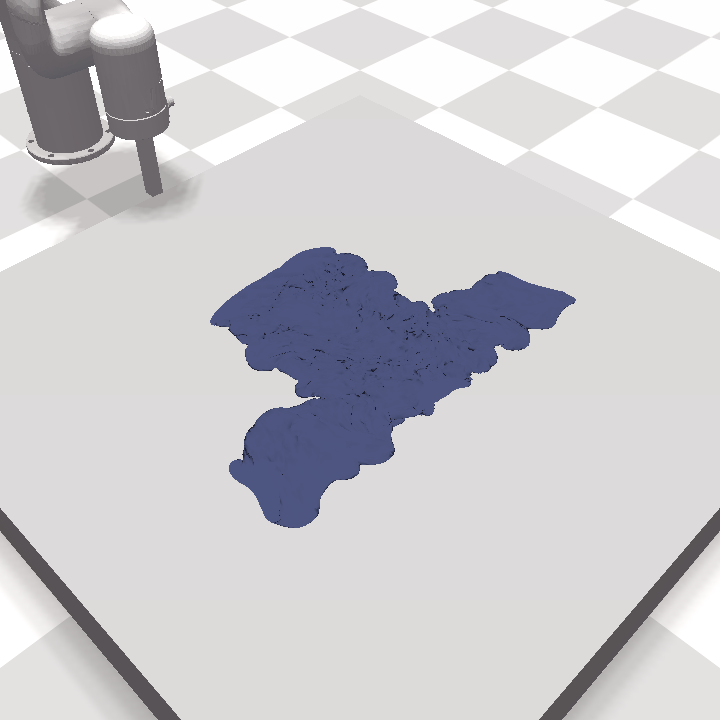
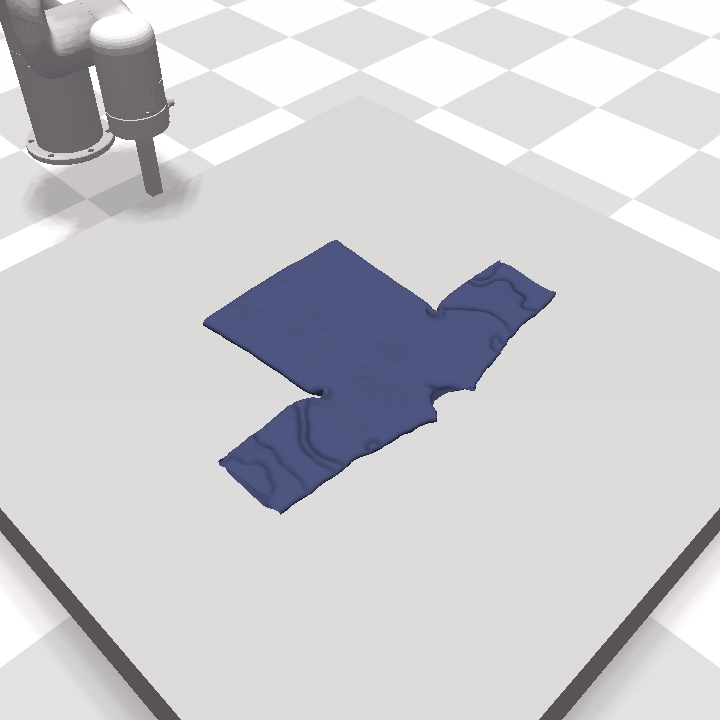
debug tshirt case.

diff --git a/flex_env.py b/flex_env.py
@@ -243,20 +243,23 @@ class FlexEnv(gym.Env):
             mesh_faces = retval[1]
             mesh_stretch_edges, mesh_bend_edges, mesh_shear_edges = retval[2:]
 
-            mesh_verts = mesh_verts * 3
+            mesh_verts = mesh_verts * 3.5
             
-            cloth_pos = [-0.5, 0, 0]
+            cloth_pos = [-1., 100., 0.]
             cloth_size = [20, 20]
             # stiffness = [0.85, 0.90, 0.90] # [stretch, bend, shear]
             stiffness = rand_float(0.4, 1.0)
             stiffness = [stiffness, stiffness, stiffness] # [stretch, bend, shear]
             cloth_mass = 1.0
-            particle_r = 0.02
+            particle_r = 0.00625
             render_mode = 2
             flip_mesh = 0
-            dynamicFriction = 0.6
-            staticFriction = 1.0
-            particleFriction = 0.6
+            
+            # 0.6, 1.0, 0.6
+            dynamicFriction = 0.1
+            staticFriction = 0.1
+            particleFriction = 0.1
+            
             self.scene_params = np.array([
                 *cloth_pos,
                 *cloth_size,
@@ -280,9 +283,9 @@ class FlexEnv(gym.Env):
         elif self.obj == '2d_cloth':
             radius = 0.05
             offset_x = -1.
-            offset_y = 0.06
+            offset_y = 5.
             offset_z = -1.
-            fabric_type = 2
+            fabric_type = 1 # 0: cloth, 1: shirt, 2: pants
 
             if fabric_type == 0:
                 # parameters of the shape
@@ -539,9 +542,8 @@ class FlexEnv(gym.Env):
         self.reset_robot()
     
     def step(self, action):
-        # h = 0.5 + self.global_scale / 8.0 #TODO
         # h = 0
-        h = 1.0 
+        h = 0.5 + 0.5
         s_2d = np.concatenate([action[:2], [h]])
         e_2d = np.concatenate([action[2:], [h]])
         # print('start action:', s_2d)
@@ -557,14 +559,12 @@ class FlexEnv(gym.Env):
         orn = np.array([0.0, np.pi, pusher_angle + np.pi/2])
 
         # create way points
-        # way_points = [s_2d + np.array([0., 0., self.global_scale / 24.0]), s_2d, e_2d, e_2d + np.array([0., 0., self.global_scale / 24.0])]
-        # way_points = [s_2d + np.array([0., 0., 1.]), s_2d, e_2d, e_2d + np.array([0., 0., 1.])]
         way_points = [s_2d + np.array([0., 0., 0.]), s_2d, e_2d, e_2d + np.array([0., 0., 0.])]
 
         self.reset_robot(self.rest_joints)
         
         # steps from waypoints
-        speed = 1.0/60.
+        speed = 1.0/200.
         for i_p in range(len(way_points)-1):
             s = way_points[i_p]
             e = way_points[i_p+1]

diff --git a/cloth_manip.py b/cloth_manip.py
@@ -1,3 +1,8 @@
+import numpy as np
+
+import pyflex
+from utils_env import load_cloth
+
 import os
 import cv2
 import numpy as np
@@ -57,8 +62,8 @@ def gen_data(info):
                 # u = env.sample_action(1)
                 # u = u[0, 0] # starting and ending positions of actions
                 # u = [2, 2, -2, -2]
-                u = [1, 0, -1, 0]
-                # u = [0, -2, 0, 1]
+                u = [2, 0, -1, 0]
+                # u = [0, 2, 0, -1]
 
                 # step
                 img = env.step(u)
